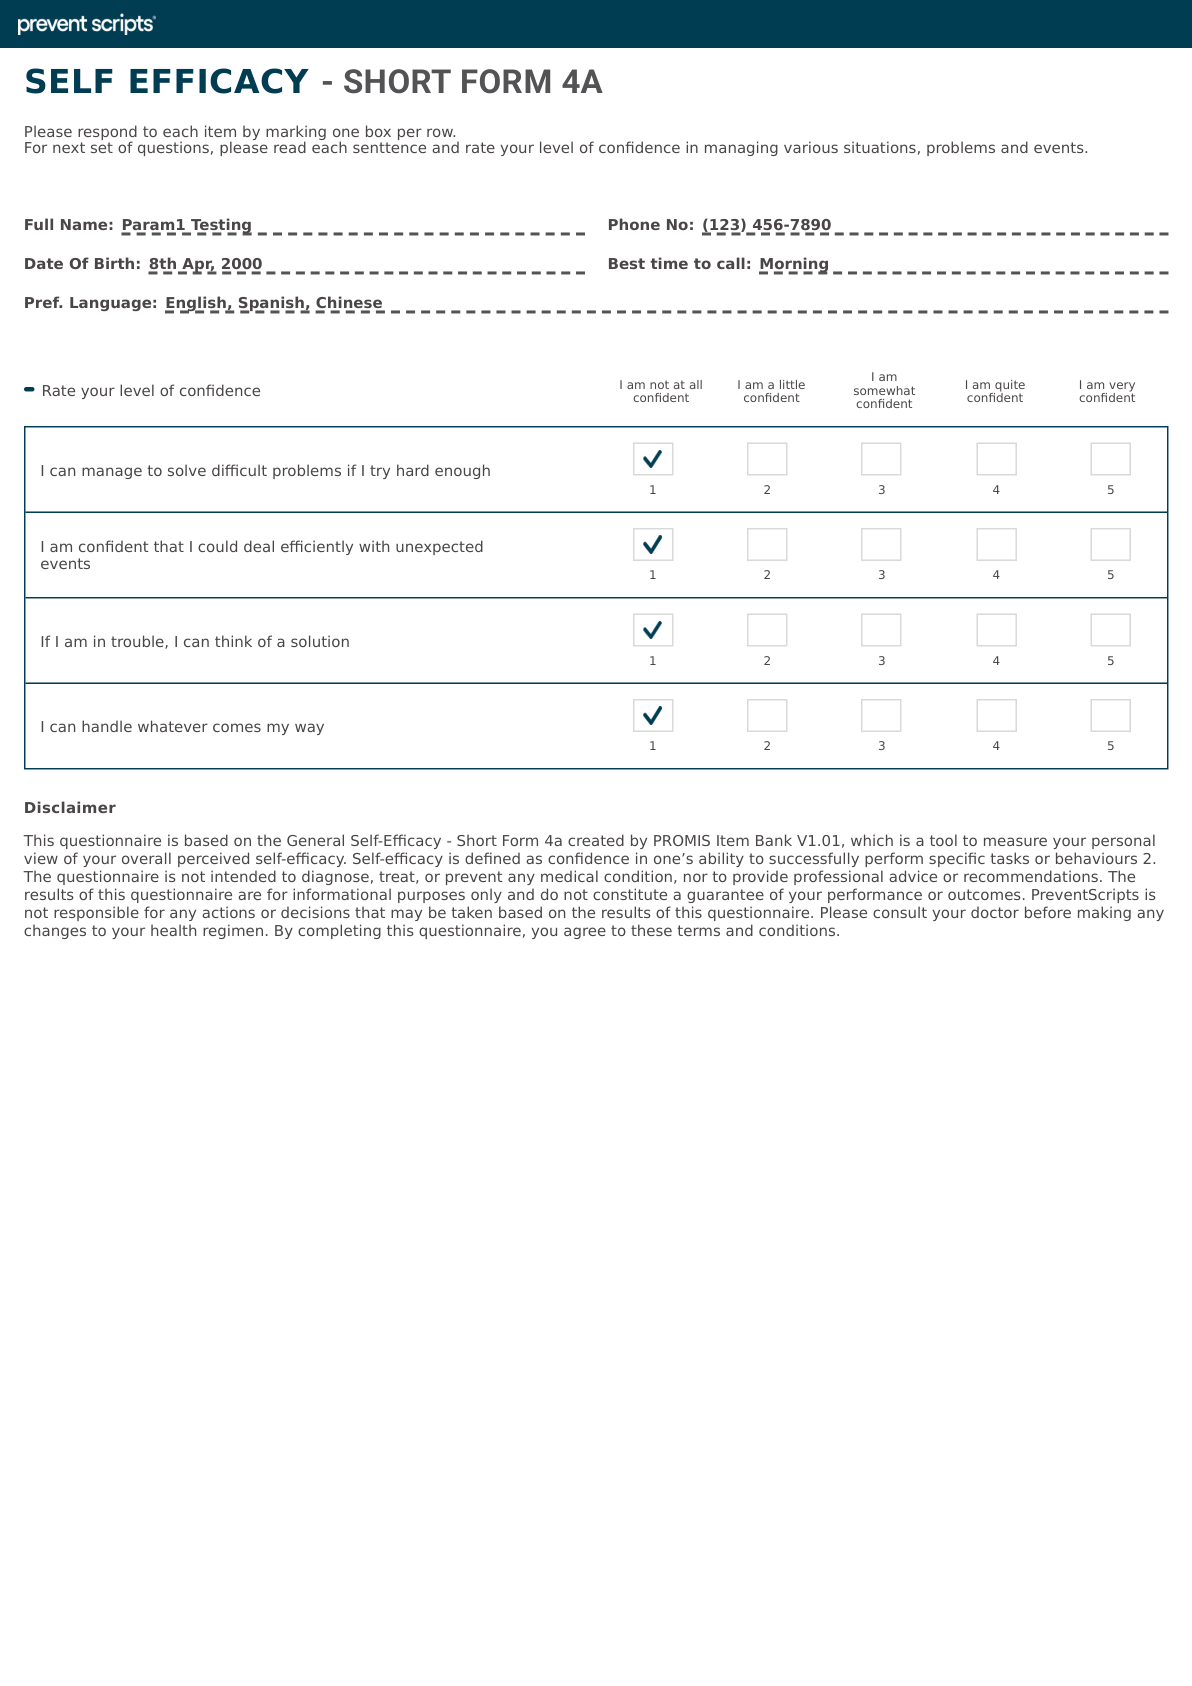
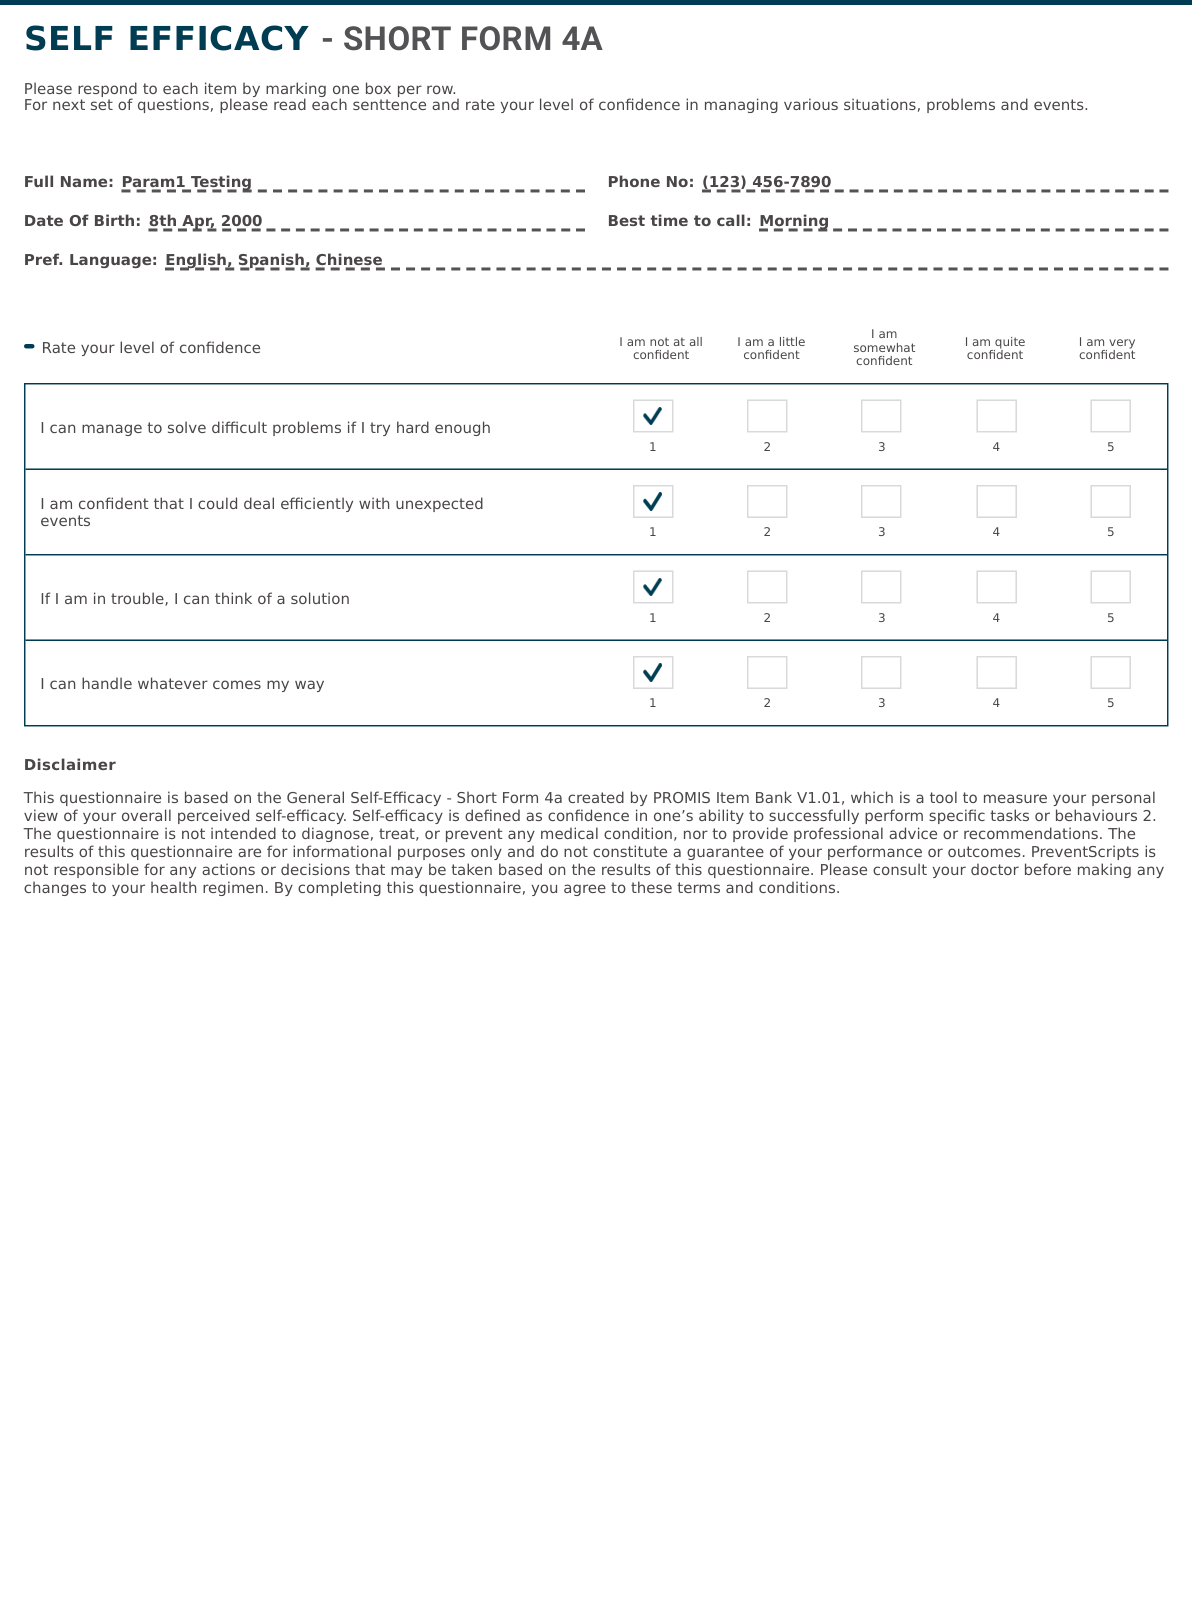
Update clinical training structure and crop assessment images

diff --git a/clinical-training.html b/clinical-training.html
@@ -348,13 +348,6 @@
     <h2>Available Programs</h2>
     <p>PreventScripts offers programs designed around disease prevention and chronic condition management. Each program includes remote patient monitoring via the PreventScripts app, a Health Advocacy Coach (HAC), and program-specific devices and resources.</p>
 
-    <div class="assessment-gallery" aria-label="Patient app overview" style="grid-template-columns:minmax(0, 420px);justify-content:center;">
-      <div class="assessment-thumb" onclick="openLightbox('Dashboardlong.png')">
-        <img src="Dashboardlong.png" alt="PreventScripts patient dashboard showing biometrics and weekly progress" loading="lazy">
-        <div class="thumb-cap"><strong>Patient-facing app dashboard</strong><br>Useful context for what patients interact with between visits.</div>
-      </div>
-    </div>
-
     <div style="background: linear-gradient(135deg, #e8f4f8 0%, #f0f8fb 100%); border-left: 5px solid #0066cc; padding: 20px; margin: 25px 0; border-radius: 8px; box-shadow: 0 2px 8px rgba(0,0,0,0.1);">
       <h3 style="color: #0066cc; margin-top: 0; font-size: 18px; font-weight: 600;">Program Details At a Glance</h3>
       <div style="display: grid; grid-template-columns: 1fr 1fr 1fr; gap: 20px; margin-top: 15px;">
@@ -390,25 +383,47 @@
       <p>Program offerings are dependent on contractual agreements between PreventScripts and your practice. Not all programs may be available at your location. Check with your practice administrator for your specific program offerings.</p>
     </div>
 
-    <h3>&#x1F7E2; Healthy Living Program</h3>
-    <p><strong>For:</strong> Patients identified as at-risk for metabolic syndrome, pre-diabetes, or obesity through the PreventScripts assessment.</p>
-    <p><strong>What patients receive:</strong> The RPM mobile app, a bluetooth-connected scale, water bottle, healthy plate magnet, and instructions on how to use the program.</p>
-    <p><strong>How it works:</strong> Patients are encouraged to self-track lifestyle habits daily, complete one &quot;My Plans&quot; goal-setting exercise each week, fill out weekly goal check-in surveys, and participate in a monthly call from their clinic care team. Common &quot;My Plans&quot; goals include: Move More, Eat More Fruit, Eat More Vegetables, Drink More Water, and Eat Less Sugar.</p>
-    <p><strong>Proven results:</strong> 47% of patients lost 1-4% body weight in 3 months. 32% lost 5% or more. Average systolic BP reduction of 12% and diastolic BP reduction of 13%.</p>
+    <h3 style="margin-top:2rem;">Programs (click through)</h3>
+    <div class="carousel-container" id="carousel-1-programs">
+      <div class="carousel-progress" id="carousel-1-programs-dots"></div>
 
-    <h3>&#x1F7E2; Healthy Living with GLP-1 Support</h3>
-    <p><strong>For:</strong> Same eligibility as Healthy Living, but specifically for patients who have been prescribed GLP-1 receptor agonist medications (e.g., semaglutide, tirzepatide).</p>
-    <p><strong>What&#39;s different:</strong> Includes all elements of the Healthy Living Program plus enhanced monitoring and coaching support around GLP-1 medication adherence, managing side effects, and maximizing the combined benefit of medication and lifestyle change.</p>
+      <div class="carousel-step active">
+        <h2>Healthy Living Program</h2>
+        <p><strong>For:</strong> Patients identified as at-risk for metabolic syndrome, pre-diabetes, or obesity through the PreventScripts assessment.</p>
+        <p><strong>What patients receive:</strong> The RPM mobile app, a bluetooth-connected scale, water bottle, healthy plate magnet, and instructions.</p>
+        <p><strong>How it works:</strong> Daily tracking + weekly My Plans goals + monthly coaching.</p>
+        <div class="tip-box"><strong>Clinical lens:</strong> Use this program to build sustainable habits and improve weight/BP trends over time.</div>
+      </div>
 
-    <h3>&#x1F535; Hypertension Prevention Program</h3>
-    <p><strong>For:</strong> Patients with elevated blood pressure documented in the last 12 months but who do NOT yet have a hypertension diagnosis. The assessment identifies these patients based on their risk profile.</p>
-    <p><strong>What patients receive:</strong> The RPM mobile app, a bluetooth-connected blood pressure cuff, and program-specific resources focused on lifestyle modifications to prevent progression to hypertension.</p>
-    <p><strong>Goal:</strong> Prevent the need for a hypertension diagnosis through proactive lifestyle intervention &mdash; diet, exercise, stress management, and regular BP monitoring.</p>
+      <div class="carousel-step">
+        <h2>Healthy Living with GLP-1 Support</h2>
+        <p><strong>For:</strong> Healthy Living-eligible patients who are prescribed GLP-1 receptor agonists (e.g., semaglutide, tirzepatide).</p>
+        <p><strong>What’s different:</strong> Includes Healthy Living + enhanced monitoring/coaching around medication adherence and side effects.</p>
+        <div class="tip-box"><strong>Clinical lens:</strong> Reinforces adherence and helps patients translate medication-driven change into long-term behavior change.</div>
+      </div>
 
-    <h3>&#x1F535; Hypertension Control Program</h3>
-    <p><strong>For:</strong> Patients with a diagnosed hypertension condition who need active blood pressure management support.</p>
-    <p><strong>What patients receive:</strong> The RPM mobile app, a bluetooth-connected blood pressure cuff, and a more intensive monitoring and coaching schedule.</p>
-    <p><strong>Goal:</strong> Help patients achieve and maintain blood pressure control targets through active BP monitoring, medication adherence support, and sustained lifestyle modifications.</p>
+      <div class="carousel-step">
+        <h2>Hypertension Prevention Program</h2>
+        <p><strong>For:</strong> Patients with elevated BP documented in the last 12 months without a formal HTN diagnosis.</p>
+        <p><strong>What patients receive:</strong> The RPM mobile app, a bluetooth-connected BP cuff, and lifestyle-focused resources.</p>
+        <p><strong>Goal:</strong> Prevent progression to hypertension through early intervention + regular BP monitoring.</p>
+        <div class="tip-box"><strong>Clinical lens:</strong> Early, consistent home readings help confirm patterns and guide counseling before diagnosis escalates.</div>
+      </div>
+
+      <div class="carousel-step">
+        <h2>Hypertension Control Program</h2>
+        <p><strong>For:</strong> Patients with diagnosed hypertension who need active BP management support.</p>
+        <p><strong>What patients receive:</strong> The RPM mobile app, a bluetooth-connected BP cuff, and more intensive monitoring/coaching.</p>
+        <p><strong>Goal:</strong> Achieve and maintain BP targets via monitoring, adherence support, and lifestyle modification.</p>
+        <div class="tip-box"><strong>Clinical lens:</strong> Trend review supports medication discussions and helps identify adherence vs. lifestyle barriers.</div>
+      </div>
+
+      <div class="carousel-nav">
+        <button class="car-btn" onclick="carouselPrev('carousel-1-programs')" id="carousel-1-programs-prev" disabled>&larr; Back</button>
+        <span class="carousel-counter"><span id="carousel-1-programs-current">1</span> of <span id="carousel-1-programs-total">4</span></span>
+        <button class="car-btn primary" onclick="carouselNext('carousel-1-programs')" id="carousel-1-programs-next">Continue &rarr;</button>
+      </div>
+    </div>
 
     <h2>How Programs Are Recommended</h2>
     <p>The PreventScripts assessment automatically generates program recommendations based on the patient&#39;s risk profile, chronic conditions, and behavioral data. You&#39;ll see this on the first page of the Assessment Report under <strong>&quot;PreventScripts Program Recommendations.&quot;</strong> For example, the sample assessment report recommends:</p>
@@ -453,44 +468,7 @@
     <p>The PreventScripts assessment is completed by patients before their visit and results are sent directly to the EHR. The assessment report is the clinical decision support tool that triages patients into the right intervention. Understanding each section will help you communicate effectively with patients about their results and recommend the right program.</p>
     <p>Below, we&#39;ll walk through each page of the assessment report with example screenshots. <strong>Click any image to enlarge it.</strong></p>
 
-    <h3 style="margin-top:1.25rem;">Weekly check-ins &amp; My Plans (app screens)</h3>
-    <p style="color:var(--ps-gray);font-size:0.92rem;max-width:820px;">These examples show the <strong>weekly goal check-in / My Plans survey flow</strong> inside the app. This is not the pre-visit intake assessment; it’s part of ongoing engagement and coaching.</p>
-    <div class="assessment-gallery" aria-label="Weekly check-in and My Plans screens">
-      <div class="assessment-thumb" onclick="openLightbox('Questionnairedemo.png')">
-        <img src="Questionnairedemo.png" alt="My Plan question selection screen" loading="lazy">
-        <div class="thumb-cap"><strong>Weekly check-in prompt</strong><br>Patients choose one focus area (e.g., drink more water).</div>
-      </div>
-      <div class="assessment-thumb" onclick="openLightbox('Questionnaire-1.png')">
-        <img src="Questionnaire-1.png" alt="My Plan confirmation screen" loading="lazy">
-        <div class="thumb-cap"><strong>Confirm goal</strong><br>Patients review their selection before continuing.</div>
-      </div>
-      <div class="assessment-thumb" onclick="openLightbox('Questionnaire.png')">
-        <img src="Questionnaire.png" alt="Creating a plan summary screen" loading="lazy">
-        <div class="thumb-cap"><strong>Goal details</strong><br>Why, barriers, and next-step language that supports coaching.</div>
-      </div>
-    </div>
-
-    <h3>RPM report examples (PDF)</h3>
-    <div class="support-grid" aria-label="RPM report example PDFs">
-      <div class="support-card">
-        <div class="sup-icon">📄</div>
-        <h4>RPM Report Example A</h4>
-        <p style="font-size:0.9rem;">Use as a reference when learning report structure and where to find key signals.</p>
-        <p style="display:flex;gap:0.75rem;flex-wrap:wrap;margin-top:0.75rem;">
-          <a href="A4.pdf" target="_blank" rel="noopener" style="color:var(--ps-teal-mid);font-weight:700;text-decoration:none;">Open</a>
-          <a href="A4.pdf" download style="color:var(--ps-teal-mid);font-weight:700;text-decoration:none;">Download</a>
-        </p>
-      </div>
-      <div class="support-card">
-        <div class="sup-icon">📄</div>
-        <h4>RPM Report Example B</h4>
-        <p style="font-size:0.9rem;">A second sample to compare formatting, highlights, and reporting flow.</p>
-        <p style="display:flex;gap:0.75rem;flex-wrap:wrap;margin-top:0.75rem;">
-          <a href="A4-1.pdf" target="_blank" rel="noopener" style="color:var(--ps-teal-mid);font-weight:700;text-decoration:none;">Open</a>
-          <a href="A4-1.pdf" download style="color:var(--ps-teal-mid);font-weight:700;text-decoration:none;">Download</a>
-        </p>
-      </div>
-    </div>
+    <div class="tip-box"><strong>Quick orientation:</strong> Use the carousel below as your guided walkthrough. Each page contributes a different “signal” (risk, readiness, barriers, and context) that shapes program selection and communication strategy.</div>
 
     <div class="carousel-container" id="carousel-2">
       <div class="carousel-progress" id="carousel-2-dots"></div>
